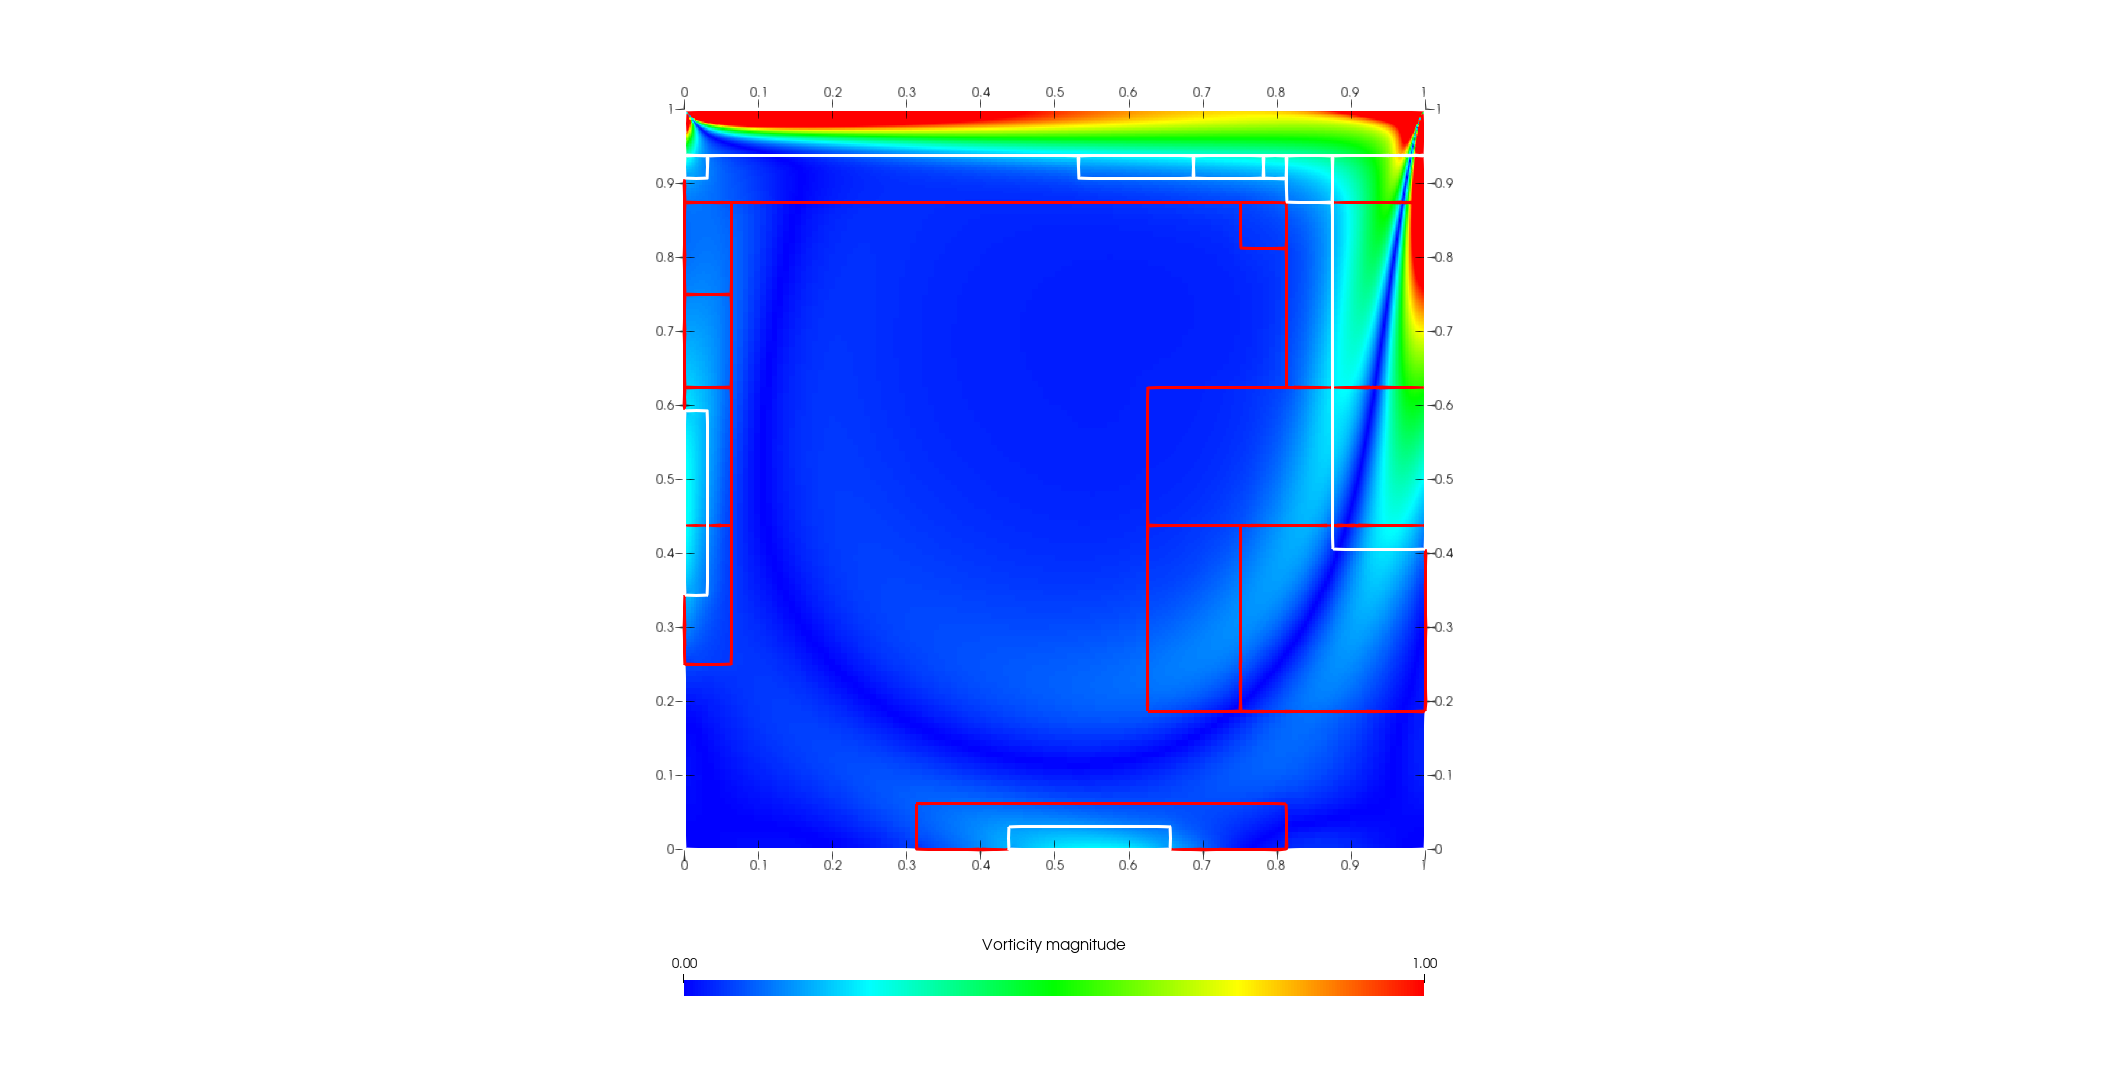
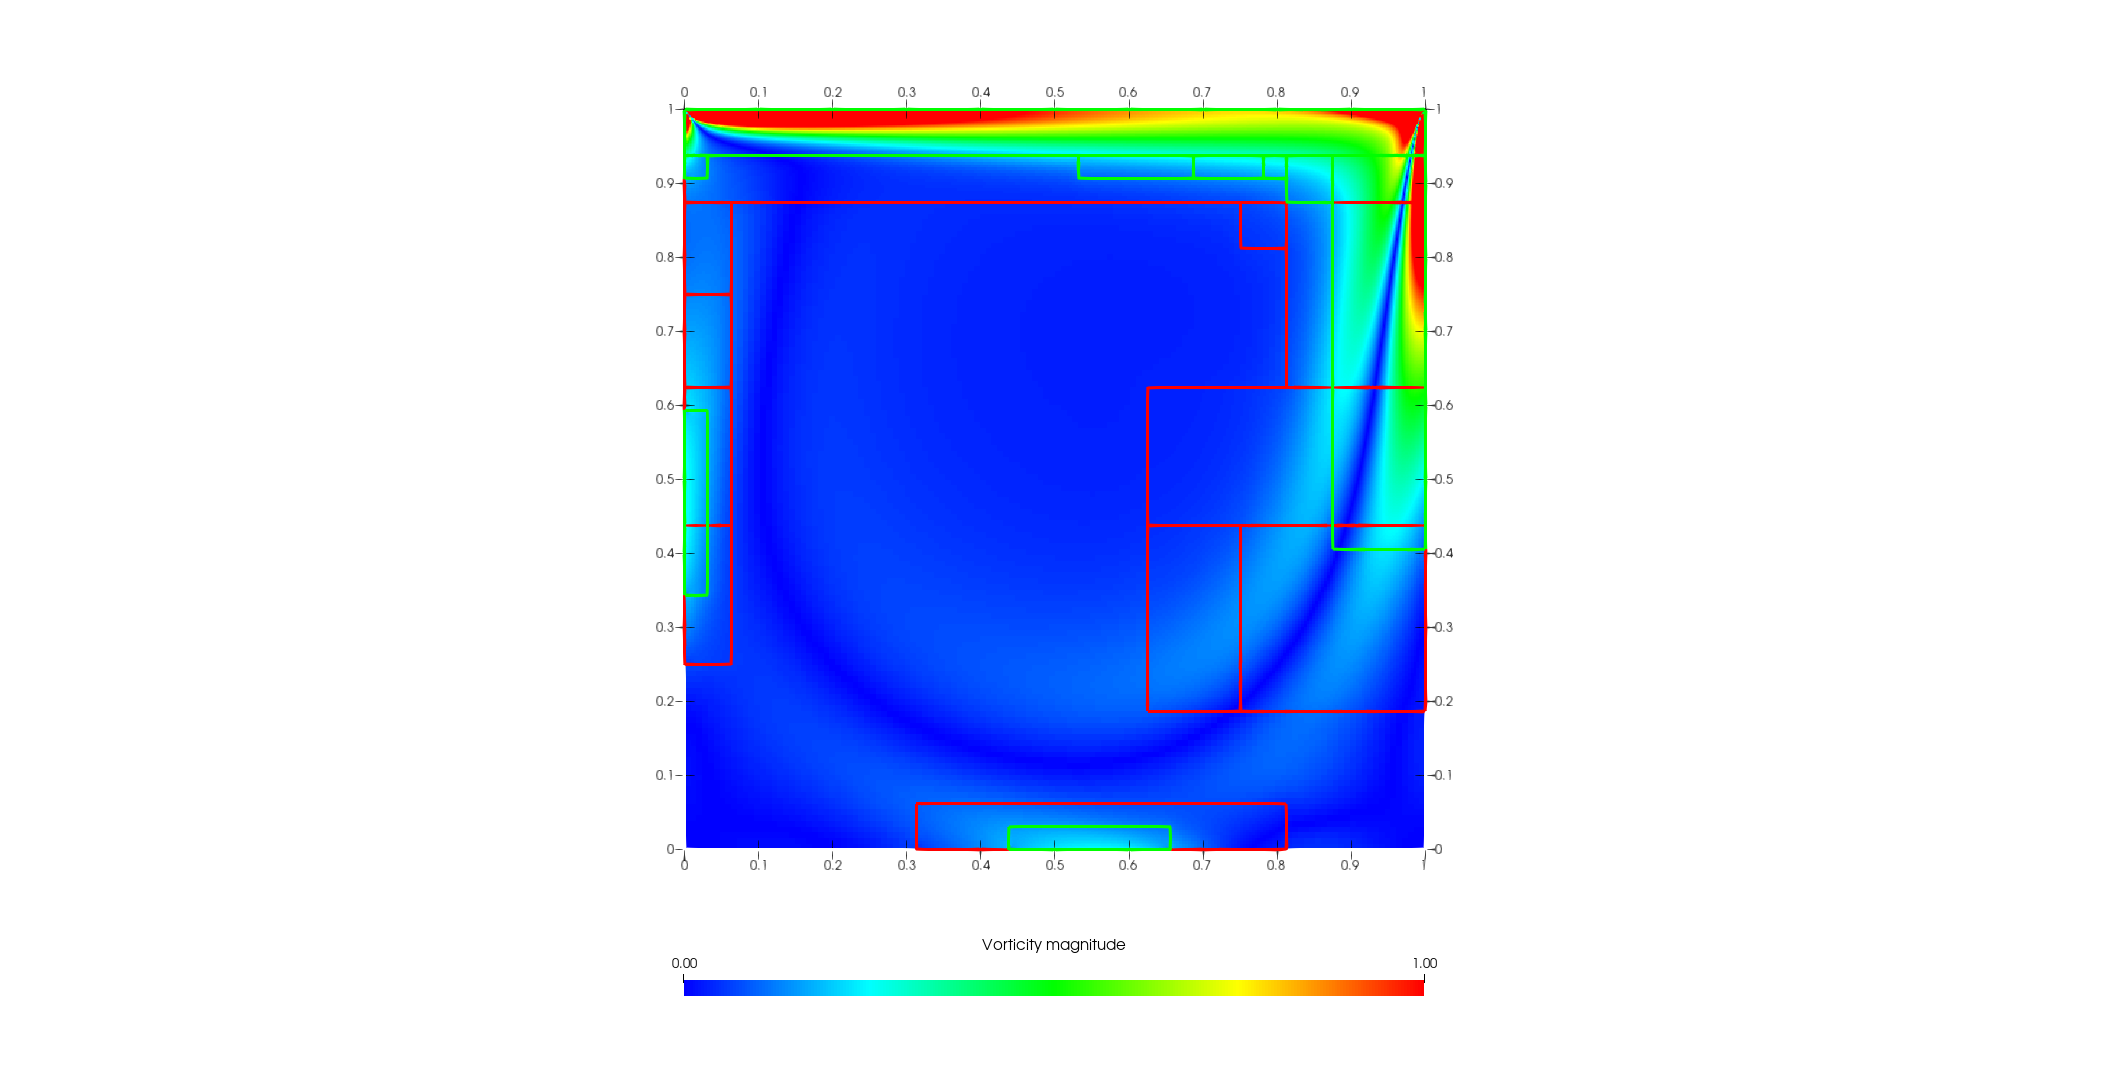
Re-export B vorticity frames with explicit AMR level colors

diff --git a/projects/3Dcases/Computing_performance_test/BOX3D_OSI/docs/ai_changes/2026-11-03-vorticity-40frames-amrlevel.md b/projects/3Dcases/Computing_performance_test/BOX3D_OSI/docs/ai_changes/2026-11-03-vorticity-40frames-amrlevel.md
@@ -1,0 +1,9 @@
+# B算例40帧涡量图重新导出
+
+目的：旧序列中自动vtkBlockColors不能可靠区分lev1/lev2，按用户确认的AMRLevel方案重导全部40帧。
+
+输入：runs/a5_B_three_plot3200/job622356/B/plt_003200至plt_128000，时间25至1000，间隔25，AMR 0–2层。从当前GUI保存场景，选用具有Vorticity magnitude水平色标的优化布局，沿用GUI中三维速度旋度、y=0.5切片和mag(Vorticity)*1.0，不额外归一化、不使用外部参考数据。2110×1066原尺寸渲染，不缩放字体；AMRLevel整数字段分类白/红/绿，线宽3，隐藏旧框线和层级图例。
+
+执行：复用此前补帧驱动的任务复现副本，增加当前布局选择与每帧层级校验。whshare-agent-1上20个独立单进程pvbatch任务，每任务两帧；不操作GUI。0006试导绿色lev2正常。全部任务成功，40条回执输入/时间/单元数/有限范围与层级字段检查通过，40张完整解码、尺寸与红绿像素检查通过；0006与0039目视检查通过。替换后SHA256逐张核对一致。图像与字段检查不构成求解器数值正确性证明。
+
+结果：data_post_processing/images/job622356_job622356__B__victory.0000.png至.0039.png。旧图40张、SHA256清单、GUI状态、复现脚本/命令、逐任务日志、试导图和completion_report.json均保存在runs/a5_B_three_plot3200/job622356/B/figures/animation_reexport_amrlevel/。该目录为正式结果与复现材料，保留；未覆盖用户原始2DVorticity.pvsm及无关修改。
